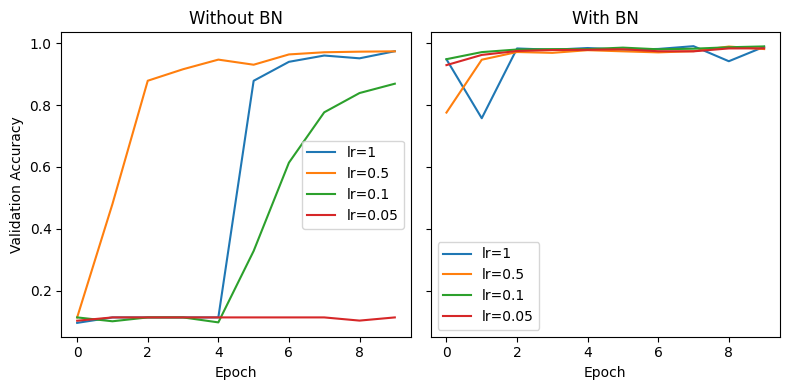
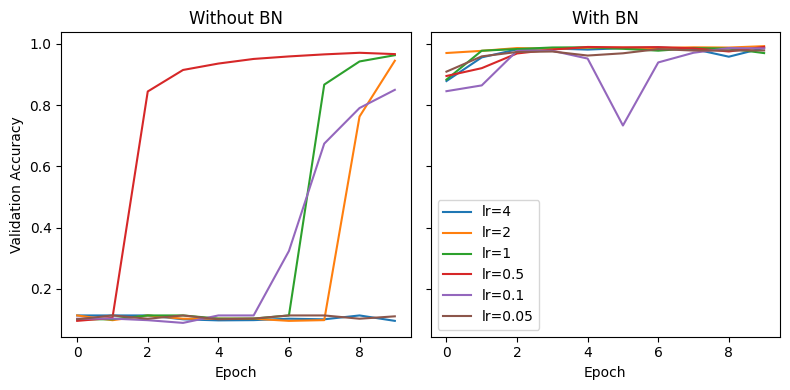
progress

diff --git a/d2l-exercises/8-5.html b/d2l-exercises/8-5.html
@@ -133,7 +133,7 @@ window.Quarto = {
 
 
 <p>Where I attempt to solve the exercises in <a href="https://d2l.ai/chapter_convolutional-modern/batch-norm.html">section 8.5 of the d2l book</a> from scratch in pytorch (without using the d2l library).</p>
-<div id="cell-2" class="cell" data-execution_count="1">
+<div id="cell-2" class="cell" data-execution_count="7">
 <details class="code-fold">
 <summary>Imports</summary>
 <div class="sourceCode cell-code" id="cb1"><pre class="sourceCode python code-with-copy"><code class="sourceCode python"><span id="cb1-1"><a href="#cb1-1" aria-hidden="true" tabindex="-1"></a><span class="cf">try</span>:</span>
@@ -152,10 +152,11 @@ window.Quarto = {
 <span id="cb1-14"><a href="#cb1-14" aria-hidden="true" tabindex="-1"></a></span>
 <span id="cb1-15"><a href="#cb1-15" aria-hidden="true" tabindex="-1"></a><span class="im">import</span> numpy <span class="im">as</span> np</span>
 <span id="cb1-16"><a href="#cb1-16" aria-hidden="true" tabindex="-1"></a><span class="im">import</span> pandas <span class="im">as</span> pd</span>
-<span id="cb1-17"><a href="#cb1-17" aria-hidden="true" tabindex="-1"></a><span class="im">import</span> matplotlib.pyplot <span class="im">as</span> plt</span>
-<span id="cb1-18"><a href="#cb1-18" aria-hidden="true" tabindex="-1"></a><span class="im">import</span> os, itertools, time, random</span>
-<span id="cb1-19"><a href="#cb1-19" aria-hidden="true" tabindex="-1"></a></span>
-<span id="cb1-20"><a href="#cb1-20" aria-hidden="true" tabindex="-1"></a>device <span class="op">=</span> <span class="st">'cpu'</span></span></code><button title="Copy to Clipboard" class="code-copy-button"><i class="bi"></i></button></pre></div>
+<span id="cb1-17"><a href="#cb1-17" aria-hidden="true" tabindex="-1"></a><span class="im">import</span> seaborn <span class="im">as</span> sns</span>
+<span id="cb1-18"><a href="#cb1-18" aria-hidden="true" tabindex="-1"></a><span class="im">import</span> matplotlib.pyplot <span class="im">as</span> plt</span>
+<span id="cb1-19"><a href="#cb1-19" aria-hidden="true" tabindex="-1"></a><span class="im">import</span> os, itertools, time, random</span>
+<span id="cb1-20"><a href="#cb1-20" aria-hidden="true" tabindex="-1"></a></span>
+<span id="cb1-21"><a href="#cb1-21" aria-hidden="true" tabindex="-1"></a>device <span class="op">=</span> <span class="st">'cpu'</span></span></code><button title="Copy to Clipboard" class="code-copy-button"><i class="bi"></i></button></pre></div>
 </details>
 </div>
 <section id="context" class="level2">
@@ -168,7 +169,7 @@ BN(x) = \gamma \odot \frac{x-\hat \mu_B}{\hat \sigma_B} + \beta
 <p>Where <span class="math inline">\(\gamma\)</span>, <span class="math inline">\(\beta\)</span> are learned and <span class="math inline">\(\mu_B\)</span>, <span class="math inline">\(\sigma_B\)</span> are estimated using the input’s minibatch <span class="math inline">\(B\)</span>.</p>
 <p>I.e. batch norm first normalizes the input to have mean <span class="math inline">\(0\)</span> and std <span class="math inline">\(1\)</span>, facilitating convergence during optimization.</p>
 <p>However, since BN is typically applied before activation (at least traditionally), doing so will reduce the expressive power of the layer. For instance, as pointed out by the <a href="https://arxiv.org/pdf/1502.03167">original paper</a>, “normalizing the inputs of a sigmoid would constrain them to the linear regime of the nonlinearity”. Below we plot a sigmoid and note that in the [-1, 1] range it is essentially linear.</p>
-<div id="cell-4" class="cell" data-execution_count="19">
+<div id="cell-4" class="cell" data-execution_count="8">
 <details class="code-fold">
 <summary>Plot sigmoid</summary>
 <div class="sourceCode cell-code" id="cb2"><pre class="sourceCode python code-with-copy"><code class="sourceCode python"><span id="cb2-1"><a href="#cb2-1" aria-hidden="true" tabindex="-1"></a>f, (ax1, ax2) <span class="op">=</span> plt.subplots(<span class="dv">1</span>, <span class="dv">2</span>, figsize<span class="op">=</span>(<span class="dv">6</span>, <span class="dv">3</span>))</span>
@@ -208,7 +209,7 @@ BN_{\gamma, \beta}(x + \alpha) =  BN_{\gamma, \beta'}(x)
 <p>In convolution layers we apply BN per channel, across all locations. I.e. <em>“each channel has its own scale and shift parameters, both of which are scalars”</em>. And since the convolution layer also outputs a scalar bias per channel, a similar argument applies.</p>
 <p>But should we remove the biases? Yes. We get the same expressive power with less params.</p>
 <p>Lets try it out empirically on MNIST by training the <code>BNLeNet</code> network defined in the section, removing bias on linear and convolution layers in turn. Although we’ll not get the same learned parameters (<span class="math inline">\(\beta \to \beta'\)</span>), we should get comparable performance.</p>
-<div id="cell-10" class="cell" data-execution_count="44">
+<div id="cell-10" class="cell" data-execution_count="10">
 <details class="code-fold">
 <summary>Model definition</summary>
 <div class="sourceCode cell-code" id="cb3"><pre class="sourceCode python code-with-copy"><code class="sourceCode python"><span id="cb3-1"><a href="#cb3-1" aria-hidden="true" tabindex="-1"></a><span class="kw">def</span> init_cnn(module):</span>
@@ -234,7 +235,7 @@ BN_{\gamma, \beta}(x + \alpha) =  BN_{\gamma, \beta'}(x)
 <span id="cb3-21"><a href="#cb3-21" aria-hidden="true" tabindex="-1"></a>        <span class="cf">return</span> <span class="va">self</span>.net(x)</span></code><button title="Copy to Clipboard" class="code-copy-button"><i class="bi"></i></button></pre></div>
 </details>
 </div>
-<div id="cell-11" class="cell" data-execution_count="42">
+<div id="cell-11" class="cell" data-execution_count="11">
 <details class="code-fold">
 <summary>Training function</summary>
 <div class="sourceCode cell-code" id="cb4"><pre class="sourceCode python code-with-copy"><code class="sourceCode python"><span id="cb4-1"><a href="#cb4-1" aria-hidden="true" tabindex="-1"></a><span class="kw">def</span> train(net, train_loader, test_loader, num_epochs <span class="op">=</span> <span class="dv">5</span>, lr <span class="op">=</span> <span class="fl">0.1</span>, verbose <span class="op">=</span> <span class="va">True</span>):</span>
@@ -264,7 +265,7 @@ BN_{\gamma, \beta}(x + \alpha) =  BN_{\gamma, \beta'}(x)
 <span id="cb4-25"><a href="#cb4-25" aria-hidden="true" tabindex="-1"></a>    <span class="cf">return</span> test_accs</span></code><button title="Copy to Clipboard" class="code-copy-button"><i class="bi"></i></button></pre></div>
 </details>
 </div>
-<div id="cell-12" class="cell" data-execution_count="70">
+<div id="cell-12" class="cell" data-execution_count="12">
 <details class="code-fold">
 <summary>Train and evaluate</summary>
 <div class="sourceCode cell-code" id="cb5"><pre class="sourceCode python code-with-copy"><code class="sourceCode python"><span id="cb5-1"><a href="#cb5-1" aria-hidden="true" tabindex="-1"></a><span class="co"># Set data loader seed for reproducibility</span></span>
@@ -277,19 +278,19 @@ BN_{\gamma, \beta}(x + \alpha) =  BN_{\gamma, \beta'}(x)
 <span id="cb5-8"><a href="#cb5-8" aria-hidden="true" tabindex="-1"></a></span>
 <span id="cb5-9"><a href="#cb5-9" aria-hidden="true" tabindex="-1"></a><span class="cf">for</span> removed_bias <span class="kw">in</span> [<span class="st">'none'</span>, <span class="st">'linear'</span>, <span class="st">'conv'</span>]:</span>
 <span id="cb5-10"><a href="#cb5-10" aria-hidden="true" tabindex="-1"></a></span>
-<span id="cb5-11"><a href="#cb5-11" aria-hidden="true" tabindex="-1"></a>    net <span class="op">=</span> BNLeNet(removed_bias <span class="op">=</span> removed_bias)</span>
-<span id="cb5-12"><a href="#cb5-12" aria-hidden="true" tabindex="-1"></a>    torch.manual_seed(<span class="dv">0</span>)<span class="op">;</span> np.random.seed(<span class="dv">0</span>)<span class="op">;</span> random.seed(<span class="dv">0</span>)</span>
-<span id="cb5-13"><a href="#cb5-13" aria-hidden="true" tabindex="-1"></a>    g <span class="op">=</span> torch.Generator()</span>
-<span id="cb5-14"><a href="#cb5-14" aria-hidden="true" tabindex="-1"></a>    g.manual_seed(<span class="dv">0</span>)</span>
+<span id="cb5-11"><a href="#cb5-11" aria-hidden="true" tabindex="-1"></a>    torch.manual_seed(<span class="dv">0</span>)<span class="op">;</span> np.random.seed(<span class="dv">0</span>)<span class="op">;</span> random.seed(<span class="dv">0</span>)</span>
+<span id="cb5-12"><a href="#cb5-12" aria-hidden="true" tabindex="-1"></a>    g <span class="op">=</span> torch.Generator()</span>
+<span id="cb5-13"><a href="#cb5-13" aria-hidden="true" tabindex="-1"></a>    g.manual_seed(<span class="dv">0</span>)</span>
+<span id="cb5-14"><a href="#cb5-14" aria-hidden="true" tabindex="-1"></a>    net <span class="op">=</span> BNLeNet(removed_bias <span class="op">=</span> removed_bias)</span>
 <span id="cb5-15"><a href="#cb5-15" aria-hidden="true" tabindex="-1"></a>    train_loader <span class="op">=</span> DataLoader(training_data, batch_size <span class="op">=</span> <span class="dv">128</span>, shuffle <span class="op">=</span> <span class="va">True</span>, worker_init_fn <span class="op">=</span> seed_worker, generator <span class="op">=</span> g)</span>
 <span id="cb5-16"><a href="#cb5-16" aria-hidden="true" tabindex="-1"></a></span>
 <span id="cb5-17"><a href="#cb5-17" aria-hidden="true" tabindex="-1"></a>    train(net, train_loader, test_loader, num_epochs <span class="op">=</span> <span class="dv">10</span>, lr <span class="op">=</span> <span class="fl">0.1</span>, verbose <span class="op">=</span> <span class="va">False</span>)</span>
 <span id="cb5-18"><a href="#cb5-18" aria-hidden="true" tabindex="-1"></a>    <span class="bu">print</span>(<span class="ss">f'</span><span class="sc">{</span>removed_bias<span class="sc">}</span><span class="ss"> final test acc: </span><span class="ch">\t</span><span class="sc">{</span>eval_net(net, test_loader)<span class="sc">}</span><span class="ss">'</span>)</span></code><button title="Copy to Clipboard" class="code-copy-button"><i class="bi"></i></button></pre></div>
 </details>
 <div class="cell-output cell-output-stdout">
-<pre><code>none final test acc:    0.9816
-linear final test acc:  0.9863
-conv final test acc:    0.9781</code></pre>
+<pre><code>none final test acc:    0.9821
+linear final test acc:  0.9869
+conv final test acc:    0.9824</code></pre>
 </div>
 </div>
 <p>Close enough.</p>
@@ -339,8 +340,8 @@ conv final test acc:    0.9781</code></pre>
 <span id="cb7-33"><a href="#cb7-33" aria-hidden="true" tabindex="-1"></a>        <span class="cf">return</span> <span class="va">self</span>.net(x)</span></code><button title="Copy to Clipboard" class="code-copy-button"><i class="bi"></i></button></pre></div>
 </details>
 </div>
-<p>Let’s try the range <span class="math inline">\(lr \in \{1, 0.5, 0.1, 0.05\}\)</span>:</p>
-<div id="cell-18" class="cell" data-execution_count="70">
+<p>We found <span class="math inline">\(lr \in \{4, 2, 1, 0.5, 0.1, 0.05\}\)</span> to the extreme learning rates where LeNet still trains (in 10 epochs).</p>
+<div id="cell-18" class="cell" data-execution_count="109">
 <details class="code-fold">
 <summary>Plot results</summary>
 <div class="sourceCode cell-code" id="cb8"><pre class="sourceCode python code-with-copy"><code class="sourceCode python"><span id="cb8-1"><a href="#cb8-1" aria-hidden="true" tabindex="-1"></a>f, (ax1, ax2) <span class="op">=</span> plt.subplots(<span class="dv">1</span>, <span class="dv">2</span>, figsize<span class="op">=</span>(<span class="dv">8</span>, <span class="dv">4</span>), sharey <span class="op">=</span> <span class="va">True</span>)</span>
@@ -348,11 +349,12 @@ conv final test acc:    0.9781</code></pre>
 <span id="cb8-3"><a href="#cb8-3" aria-hidden="true" tabindex="-1"></a><span class="cf">for</span> ax, name, results <span class="kw">in</span> <span class="bu">zip</span>([ax1, ax2], [<span class="st">'Without BN'</span>, <span class="st">'With BN'</span>], [without_bn, with_bn]):</span>
 <span id="cb8-4"><a href="#cb8-4" aria-hidden="true" tabindex="-1"></a>    <span class="cf">for</span> lr, accs <span class="kw">in</span> <span class="bu">zip</span>(lrs, results):</span>
 <span id="cb8-5"><a href="#cb8-5" aria-hidden="true" tabindex="-1"></a>        ax.plot(accs, label<span class="op">=</span><span class="ss">f'lr=</span><span class="sc">{</span>lr<span class="sc">}</span><span class="ss">'</span>)</span>
-<span id="cb8-6"><a href="#cb8-6" aria-hidden="true" tabindex="-1"></a>        ax.legend()</span>
-<span id="cb8-7"><a href="#cb8-7" aria-hidden="true" tabindex="-1"></a>        ax.set_title(<span class="ss">f'</span><span class="sc">{</span>name<span class="sc">}</span><span class="ss">'</span>)</span>
-<span id="cb8-8"><a href="#cb8-8" aria-hidden="true" tabindex="-1"></a>        ax.set_xlabel(<span class="st">'Epoch'</span>)</span>
+<span id="cb8-6"><a href="#cb8-6" aria-hidden="true" tabindex="-1"></a>        ax.set_title(<span class="ss">f'</span><span class="sc">{</span>name<span class="sc">}</span><span class="ss">'</span>)</span>
+<span id="cb8-7"><a href="#cb8-7" aria-hidden="true" tabindex="-1"></a>        ax.set_xlabel(<span class="st">'Epoch'</span>)</span>
+<span id="cb8-8"><a href="#cb8-8" aria-hidden="true" tabindex="-1"></a></span>
 <span id="cb8-9"><a href="#cb8-9" aria-hidden="true" tabindex="-1"></a>ax1.set_ylabel(<span class="st">'Validation Accuracy'</span>)</span>
-<span id="cb8-10"><a href="#cb8-10" aria-hidden="true" tabindex="-1"></a>f.tight_layout()</span></code><button title="Copy to Clipboard" class="code-copy-button"><i class="bi"></i></button></pre></div>
+<span id="cb8-10"><a href="#cb8-10" aria-hidden="true" tabindex="-1"></a>ax2.legend()</span>
+<span id="cb8-11"><a href="#cb8-11" aria-hidden="true" tabindex="-1"></a>f.tight_layout()</span></code><button title="Copy to Clipboard" class="code-copy-button"><i class="bi"></i></button></pre></div>
 </details>
 <div class="cell-output cell-output-display">
 <div>
@@ -362,19 +364,167 @@ conv final test acc:    0.9781</code></pre>
 </div>
 </div>
 </div>
-<p>And we observe that applying batch norm helps early training - we achive better performance earlier. And while we would probably obtain the same test accuracy given more epochs with both methods, training without BN already fails at a learning rate of <span class="math inline">\(0.05\)</span>.</p>
+<p>And we observe that applying batch norm helps early training (we achive better performance earlier) and makes training more robust to learning rate selection.</p>
+<p><a href="https://proceedings.neurips.cc/paper/2018/hash/36072923bfc3cf47745d704feb489480-Abstract.html"><em>Understanding Batch Normalization</em></a> poses that batch norm’s main benefit is that is allows for greater learning rates by containing activation blowup (especially in later layers), which in turn biases the optimization to “flatter” minimas with better generalization.</p>
+<p>It seems our small experiment aligns with the paper, even though our network is quite shallow.</p>
 </section>
 <section id="q3" class="level2">
 <h2 class="anchored" data-anchor-id="q3">Q3</h2>
 <p>Do we need batch normalization in every layer? Experiment with it.</p>
+<p>The paper demonstrates that it is more benefitial in later layers. Let’s see if it is in our case and remove each batch norm in turn, logging test accuracies and activations. We trained 5 nets per configuration.</p>
+<div id="cell-23" class="cell" data-execution_count="15">
+<details class="code-fold">
+<summary>Redefine the model</summary>
+<div class="sourceCode cell-code" id="cb9"><pre class="sourceCode python code-with-copy"><code class="sourceCode python"><span id="cb9-1"><a href="#cb9-1" aria-hidden="true" tabindex="-1"></a><span class="kw">class</span> BNLeNet(nn.Module):</span>
+<span id="cb9-2"><a href="#cb9-2" aria-hidden="true" tabindex="-1"></a>    <span class="kw">def</span> <span class="fu">__init__</span>(<span class="va">self</span>, num_classes <span class="op">=</span> <span class="dv">10</span>, ex_bn_layers <span class="op">=</span> []):</span>
+<span id="cb9-3"><a href="#cb9-3" aria-hidden="true" tabindex="-1"></a>        <span class="co"># ex_bn_layers: list of BN layers to exclude (1, ..., 4)</span></span>
+<span id="cb9-4"><a href="#cb9-4" aria-hidden="true" tabindex="-1"></a></span>
+<span id="cb9-5"><a href="#cb9-5" aria-hidden="true" tabindex="-1"></a>        <span class="bu">super</span>().<span class="fu">__init__</span>()</span>
+<span id="cb9-6"><a href="#cb9-6" aria-hidden="true" tabindex="-1"></a>        <span class="cf">for</span> i <span class="kw">in</span> ex_bn_layers: <span class="cf">assert</span> i <span class="kw">in</span> <span class="bu">range</span>(<span class="dv">1</span>, <span class="dv">5</span>), <span class="st">'There are only 4 BN layers'</span></span>
+<span id="cb9-7"><a href="#cb9-7" aria-hidden="true" tabindex="-1"></a></span>
+<span id="cb9-8"><a href="#cb9-8" aria-hidden="true" tabindex="-1"></a>        layers <span class="op">=</span> [</span>
+<span id="cb9-9"><a href="#cb9-9" aria-hidden="true" tabindex="-1"></a>            nn.LazyConv2d(<span class="dv">6</span>, kernel_size<span class="op">=</span><span class="dv">5</span>), nn.LazyBatchNorm2d(), nn.Sigmoid(),</span>
+<span id="cb9-10"><a href="#cb9-10" aria-hidden="true" tabindex="-1"></a>            nn.AvgPool2d(kernel_size<span class="op">=</span><span class="dv">2</span>, stride<span class="op">=</span><span class="dv">2</span>),</span>
+<span id="cb9-11"><a href="#cb9-11" aria-hidden="true" tabindex="-1"></a>            nn.LazyConv2d(<span class="dv">16</span>, kernel_size<span class="op">=</span><span class="dv">5</span>), nn.LazyBatchNorm2d(), nn.Sigmoid(),</span>
+<span id="cb9-12"><a href="#cb9-12" aria-hidden="true" tabindex="-1"></a>            nn.AvgPool2d(kernel_size<span class="op">=</span><span class="dv">2</span>, stride<span class="op">=</span><span class="dv">2</span>),</span>
+<span id="cb9-13"><a href="#cb9-13" aria-hidden="true" tabindex="-1"></a>            nn.Flatten(),</span>
+<span id="cb9-14"><a href="#cb9-14" aria-hidden="true" tabindex="-1"></a>            nn.LazyLinear(<span class="dv">120</span>), nn.LazyBatchNorm1d(), nn.Sigmoid(),</span>
+<span id="cb9-15"><a href="#cb9-15" aria-hidden="true" tabindex="-1"></a>            nn.LazyLinear(<span class="dv">84</span>), nn.LazyBatchNorm1d(), nn.Sigmoid(),</span>
+<span id="cb9-16"><a href="#cb9-16" aria-hidden="true" tabindex="-1"></a>            nn.LazyLinear(num_classes)</span>
+<span id="cb9-17"><a href="#cb9-17" aria-hidden="true" tabindex="-1"></a>        ]</span>
+<span id="cb9-18"><a href="#cb9-18" aria-hidden="true" tabindex="-1"></a></span>
+<span id="cb9-19"><a href="#cb9-19" aria-hidden="true" tabindex="-1"></a>        bn_idx <span class="op">=</span> [i <span class="cf">for</span> i, module <span class="kw">in</span> <span class="bu">enumerate</span>(layers) <span class="cf">if</span> <span class="st">'BatchNorm'</span> <span class="kw">in</span> <span class="bu">str</span>(module)]</span>
+<span id="cb9-20"><a href="#cb9-20" aria-hidden="true" tabindex="-1"></a>        <span class="cf">for</span> i <span class="kw">in</span> ex_bn_layers: layers[bn_idx[i <span class="op">-</span> <span class="dv">1</span>]] <span class="op">=</span> nn.Identity()</span>
+<span id="cb9-21"><a href="#cb9-21" aria-hidden="true" tabindex="-1"></a></span>
+<span id="cb9-22"><a href="#cb9-22" aria-hidden="true" tabindex="-1"></a>        <span class="va">self</span>.net <span class="op">=</span> nn.Sequential(<span class="op">*</span>layers)</span>
+<span id="cb9-23"><a href="#cb9-23" aria-hidden="true" tabindex="-1"></a></span>
+<span id="cb9-24"><a href="#cb9-24" aria-hidden="true" tabindex="-1"></a>    <span class="kw">def</span> forward(<span class="va">self</span>, x):</span>
+<span id="cb9-25"><a href="#cb9-25" aria-hidden="true" tabindex="-1"></a>        <span class="cf">return</span> <span class="va">self</span>.net(x)</span></code><button title="Copy to Clipboard" class="code-copy-button"><i class="bi"></i></button></pre></div>
+</details>
+</div>
+<div id="cell-24" class="cell">
+<details class="code-fold">
+<summary>Train and evaluate</summary>
+<div class="sourceCode cell-code" id="cb10"><pre class="sourceCode python code-with-copy"><code class="sourceCode python"><span id="cb10-1"><a href="#cb10-1" aria-hidden="true" tabindex="-1"></a>train_loader <span class="op">=</span> DataLoader(training_data, batch_size <span class="op">=</span> <span class="dv">128</span>, shuffle <span class="op">=</span> <span class="va">True</span>)</span>
+<span id="cb10-2"><a href="#cb10-2" aria-hidden="true" tabindex="-1"></a>test_loader <span class="op">=</span> DataLoader(testing_data, batch_size <span class="op">=</span> <span class="dv">128</span>, shuffle <span class="op">=</span> <span class="va">False</span>)</span>
+<span id="cb10-3"><a href="#cb10-3" aria-hidden="true" tabindex="-1"></a>imgs, labels <span class="op">=</span> <span class="bu">next</span>(<span class="bu">iter</span>(train_loader))</span>
+<span id="cb10-4"><a href="#cb10-4" aria-hidden="true" tabindex="-1"></a></span>
+<span id="cb10-5"><a href="#cb10-5" aria-hidden="true" tabindex="-1"></a>ex_bn_layers <span class="op">=</span> [[], [<span class="dv">1</span>], [<span class="dv">2</span>], [<span class="dv">3</span>], [<span class="dv">4</span>]]</span>
+<span id="cb10-6"><a href="#cb10-6" aria-hidden="true" tabindex="-1"></a>mag_layers <span class="op">=</span> [<span class="dv">2</span>, <span class="dv">6</span>, <span class="dv">11</span>, <span class="dv">14</span>]</span>
+<span id="cb10-7"><a href="#cb10-7" aria-hidden="true" tabindex="-1"></a>results <span class="op">=</span> []</span>
+<span id="cb10-8"><a href="#cb10-8" aria-hidden="true" tabindex="-1"></a></span>
+<span id="cb10-9"><a href="#cb10-9" aria-hidden="true" tabindex="-1"></a><span class="cf">for</span> ex <span class="kw">in</span> ex_bn_layers:</span>
+<span id="cb10-10"><a href="#cb10-10" aria-hidden="true" tabindex="-1"></a></span>
+<span id="cb10-11"><a href="#cb10-11" aria-hidden="true" tabindex="-1"></a>    <span class="bu">print</span>(ex)</span>
+<span id="cb10-12"><a href="#cb10-12" aria-hidden="true" tabindex="-1"></a></span>
+<span id="cb10-13"><a href="#cb10-13" aria-hidden="true" tabindex="-1"></a>    <span class="cf">for</span> epochs <span class="kw">in</span> [<span class="dv">2</span>, <span class="dv">4</span>, <span class="dv">8</span>]:</span>
+<span id="cb10-14"><a href="#cb10-14" aria-hidden="true" tabindex="-1"></a></span>
+<span id="cb10-15"><a href="#cb10-15" aria-hidden="true" tabindex="-1"></a>        <span class="bu">print</span>(epochs)</span>
+<span id="cb10-16"><a href="#cb10-16" aria-hidden="true" tabindex="-1"></a>    </span>
+<span id="cb10-17"><a href="#cb10-17" aria-hidden="true" tabindex="-1"></a>        <span class="cf">for</span> i <span class="kw">in</span> <span class="bu">range</span>(<span class="dv">5</span>):</span>
+<span id="cb10-18"><a href="#cb10-18" aria-hidden="true" tabindex="-1"></a></span>
+<span id="cb10-19"><a href="#cb10-19" aria-hidden="true" tabindex="-1"></a>            net <span class="op">=</span> BNLeNet(ex_bn_layers <span class="op">=</span> ex)</span>
+<span id="cb10-20"><a href="#cb10-20" aria-hidden="true" tabindex="-1"></a>            test_accs <span class="op">=</span> train(net, train_loader, test_loader, num_epochs <span class="op">=</span> epochs, lr <span class="op">=</span> <span class="fl">0.1</span>, verbose <span class="op">=</span> <span class="va">False</span>)</span>
+<span id="cb10-21"><a href="#cb10-21" aria-hidden="true" tabindex="-1"></a></span>
+<span id="cb10-22"><a href="#cb10-22" aria-hidden="true" tabindex="-1"></a>            tmp <span class="op">=</span> {</span>
+<span id="cb10-23"><a href="#cb10-23" aria-hidden="true" tabindex="-1"></a>                <span class="st">'Excluded BN layers'</span>: ex[<span class="dv">0</span>] <span class="cf">if</span> ex <span class="cf">else</span> <span class="dv">0</span>,</span>
+<span id="cb10-24"><a href="#cb10-24" aria-hidden="true" tabindex="-1"></a>                <span class="st">'Epochs'</span>: epochs,</span>
+<span id="cb10-25"><a href="#cb10-25" aria-hidden="true" tabindex="-1"></a>                <span class="st">'Test accuracy'</span>: test_accs[<span class="op">-</span><span class="dv">1</span>],</span>
+<span id="cb10-26"><a href="#cb10-26" aria-hidden="true" tabindex="-1"></a>                <span class="st">'Iter'</span>: i</span>
+<span id="cb10-27"><a href="#cb10-27" aria-hidden="true" tabindex="-1"></a>            }</span>
+<span id="cb10-28"><a href="#cb10-28" aria-hidden="true" tabindex="-1"></a>            </span>
+<span id="cb10-29"><a href="#cb10-29" aria-hidden="true" tabindex="-1"></a>            <span class="cf">for</span> lyr <span class="kw">in</span> mag_layers:</span>
+<span id="cb10-30"><a href="#cb10-30" aria-hidden="true" tabindex="-1"></a>                sub <span class="op">=</span> net.net[:lyr]</span>
+<span id="cb10-31"><a href="#cb10-31" aria-hidden="true" tabindex="-1"></a>                <span class="cf">with</span> torch.no_grad(): </span>
+<span id="cb10-32"><a href="#cb10-32" aria-hidden="true" tabindex="-1"></a>                    mag <span class="op">=</span> (sub(imgs) <span class="op">**</span> <span class="dv">2</span>).mean()</span>
+<span id="cb10-33"><a href="#cb10-33" aria-hidden="true" tabindex="-1"></a>                    tmp[<span class="ss">f'Mean mag at </span><span class="sc">{</span>lyr<span class="sc">}</span><span class="ss">'</span>] <span class="op">=</span> mag.item()</span>
+<span id="cb10-34"><a href="#cb10-34" aria-hidden="true" tabindex="-1"></a>            </span>
+<span id="cb10-35"><a href="#cb10-35" aria-hidden="true" tabindex="-1"></a>            results.append(tmp)</span></code><button title="Copy to Clipboard" class="code-copy-button"><i class="bi"></i></button></pre></div>
+</details>
+</div>
+<p>Does performance change?</p>
+<div id="cell-26" class="cell" data-execution_count="266">
+<details class="code-fold">
+<summary>Plot test accuracies</summary>
+<div class="sourceCode cell-code" id="cb11"><pre class="sourceCode python code-with-copy"><code class="sourceCode python"><span id="cb11-1"><a href="#cb11-1" aria-hidden="true" tabindex="-1"></a>res <span class="op">=</span> pd.DataFrame(results)</span>
+<span id="cb11-2"><a href="#cb11-2" aria-hidden="true" tabindex="-1"></a>res[<span class="st">'Excluded BN layers'</span>].replace({<span class="dv">0</span>: <span class="st">'None'</span>, <span class="dv">1</span>: <span class="st">'2'</span>, <span class="dv">2</span>: <span class="st">'6'</span>, <span class="dv">3</span>: <span class="st">'11'</span>, <span class="dv">4</span>: <span class="st">'14'</span>}, inplace <span class="op">=</span> <span class="va">True</span>)</span>
+<span id="cb11-3"><a href="#cb11-3" aria-hidden="true" tabindex="-1"></a></span>
+<span id="cb11-4"><a href="#cb11-4" aria-hidden="true" tabindex="-1"></a>sns.barplot(data <span class="op">=</span> res, x <span class="op">=</span> <span class="st">'Excluded BN layers'</span>, y <span class="op">=</span> <span class="st">'Test accuracy'</span>, hue <span class="op">=</span> <span class="st">'Epochs'</span>)</span>
+<span id="cb11-5"><a href="#cb11-5" aria-hidden="true" tabindex="-1"></a>plt.ylim(<span class="fl">0.5</span>, <span class="dv">1</span>)</span></code><button title="Copy to Clipboard" class="code-copy-button"><i class="bi"></i></button></pre></div>
+</details>
+<div class="cell-output cell-output-display">
+<div>
+<figure class="figure">
+<p><img src="8-5_files/figure-html/cell-13-output-1.png" class="img-fluid figure-img"></p>
+</figure>
+</div>
+</div>
+</div>
+<p>It seems that removing the first batch norm (in the second layer) has the strongest hit on performance.</p>
+<p>What about activations? Let’s plot the <span class="math inline">\(l_2\)</span> norm of activations of layers that come right after batch norm layers:</p>
+<div id="cell-28" class="cell" data-execution_count="267">
+<details class="code-fold">
+<summary>Code</summary>
+<div class="sourceCode cell-code" id="cb12"><pre class="sourceCode python code-with-copy"><code class="sourceCode python"><span id="cb12-1"><a href="#cb12-1" aria-hidden="true" tabindex="-1"></a>f, axs <span class="op">=</span> plt.subplots(<span class="dv">1</span>, <span class="dv">4</span>, figsize<span class="op">=</span>(<span class="dv">16</span>, <span class="dv">4</span>))</span>
+<span id="cb12-2"><a href="#cb12-2" aria-hidden="true" tabindex="-1"></a></span>
+<span id="cb12-3"><a href="#cb12-3" aria-hidden="true" tabindex="-1"></a><span class="cf">for</span> i, lyr <span class="kw">in</span> <span class="bu">enumerate</span>(mag_layers):</span>
+<span id="cb12-4"><a href="#cb12-4" aria-hidden="true" tabindex="-1"></a>    sns.barplot(data <span class="op">=</span> res, x <span class="op">=</span> <span class="st">'Excluded BN layers'</span>, y <span class="op">=</span> <span class="ss">f'Mean mag at </span><span class="sc">{</span>lyr<span class="sc">}</span><span class="ss">'</span>, ax <span class="op">=</span> axs[i], hue<span class="op">=</span><span class="st">'Epochs'</span>)</span>
+<span id="cb12-5"><a href="#cb12-5" aria-hidden="true" tabindex="-1"></a>    axs[i].set_title(<span class="ss">f'Layer </span><span class="sc">{</span>lyr<span class="sc">}</span><span class="ss">'</span>)</span>
+<span id="cb12-6"><a href="#cb12-6" aria-hidden="true" tabindex="-1"></a>    axs[i].set_ylabel(<span class="st">''</span>)</span>
+<span id="cb12-7"><a href="#cb12-7" aria-hidden="true" tabindex="-1"></a></span>
+<span id="cb12-8"><a href="#cb12-8" aria-hidden="true" tabindex="-1"></a>axs[<span class="dv">0</span>].set_ylabel(<span class="st">'Mean act L2 magnitude'</span>)</span>
+<span id="cb12-9"><a href="#cb12-9" aria-hidden="true" tabindex="-1"></a>f.tight_layout()</span></code><button title="Copy to Clipboard" class="code-copy-button"><i class="bi"></i></button></pre></div>
+</details>
+<div class="cell-output cell-output-display">
+<div>
+<figure class="figure">
+<p><img src="8-5_files/figure-html/cell-14-output-1.png" class="img-fluid figure-img"></p>
+</figure>
+</div>
+</div>
+</div>
+<p>We can definitely an effect when we remove batch norm layers. In general the activation magnitudes decrease in the removed layer. I.e. layer 2’s magnitudes when its batch norm is removed are lower than in the original network, and so on for the other layers. It also seems that other layers compensate for this decrease by increasing their magnitudes. Finally, as the paper points out, the effects appear stronger in early epochs.</p>
 </section>
 <section id="q4" class="level2">
 <h2 class="anchored" data-anchor-id="q4">Q4</h2>
 <p>Implement a “lite” version of batch normalization that only removes the mean, or alternatively one that only removes the variance. How does it behave?</p>
+<p>We can freeze <code>BatchNorm</code>’s weight and bias params respectively:</p>
+<div id="cell-31" class="cell" data-execution_count="19">
+<details class="code-fold">
+<summary>Train and evaluate</summary>
+<div class="sourceCode cell-code" id="cb13"><pre class="sourceCode python code-with-copy"><code class="sourceCode python"><span id="cb13-1"><a href="#cb13-1" aria-hidden="true" tabindex="-1"></a><span class="cf">for</span> remove_mean, remove_var <span class="kw">in</span> [[<span class="va">True</span>, <span class="va">True</span>], [<span class="va">False</span>, <span class="va">True</span>], [<span class="va">True</span>, <span class="va">False</span>], [<span class="va">False</span>, <span class="va">False</span>]]:</span>
+<span id="cb13-2"><a href="#cb13-2" aria-hidden="true" tabindex="-1"></a></span>
+<span id="cb13-3"><a href="#cb13-3" aria-hidden="true" tabindex="-1"></a>    <span class="co"># All nets "see" the same data</span></span>
+<span id="cb13-4"><a href="#cb13-4" aria-hidden="true" tabindex="-1"></a>    torch.manual_seed(<span class="dv">0</span>)<span class="op">;</span> np.random.seed(<span class="dv">0</span>)<span class="op">;</span> random.seed(<span class="dv">0</span>)</span>
+<span id="cb13-5"><a href="#cb13-5" aria-hidden="true" tabindex="-1"></a>    g <span class="op">=</span> torch.Generator()</span>
+<span id="cb13-6"><a href="#cb13-6" aria-hidden="true" tabindex="-1"></a>    g.manual_seed(<span class="dv">0</span>)</span>
+<span id="cb13-7"><a href="#cb13-7" aria-hidden="true" tabindex="-1"></a></span>
+<span id="cb13-8"><a href="#cb13-8" aria-hidden="true" tabindex="-1"></a>    net <span class="op">=</span> BNLeNet()</span>
+<span id="cb13-9"><a href="#cb13-9" aria-hidden="true" tabindex="-1"></a>    <span class="cf">for</span> module <span class="kw">in</span> net.net:</span>
+<span id="cb13-10"><a href="#cb13-10" aria-hidden="true" tabindex="-1"></a>        <span class="cf">if</span> <span class="st">'BatchNorm'</span> <span class="kw">in</span> <span class="bu">str</span>(module):</span>
+<span id="cb13-11"><a href="#cb13-11" aria-hidden="true" tabindex="-1"></a>            <span class="cf">if</span> remove_mean:</span>
+<span id="cb13-12"><a href="#cb13-12" aria-hidden="true" tabindex="-1"></a>                module.bias.requires_grad <span class="op">=</span> <span class="va">False</span></span>
+<span id="cb13-13"><a href="#cb13-13" aria-hidden="true" tabindex="-1"></a>            <span class="cf">if</span> remove_var:</span>
+<span id="cb13-14"><a href="#cb13-14" aria-hidden="true" tabindex="-1"></a>                module.weight.requires_grad <span class="op">=</span> <span class="va">False</span></span>
+<span id="cb13-15"><a href="#cb13-15" aria-hidden="true" tabindex="-1"></a></span>
+<span id="cb13-16"><a href="#cb13-16" aria-hidden="true" tabindex="-1"></a>    train_loader <span class="op">=</span> DataLoader(training_data, batch_size <span class="op">=</span> <span class="dv">128</span>, shuffle <span class="op">=</span> <span class="va">True</span>, worker_init_fn <span class="op">=</span> seed_worker, generator <span class="op">=</span> g)</span>
+<span id="cb13-17"><a href="#cb13-17" aria-hidden="true" tabindex="-1"></a></span>
+<span id="cb13-18"><a href="#cb13-18" aria-hidden="true" tabindex="-1"></a>    test_accs <span class="op">=</span> train(net, train_loader, test_loader, num_epochs <span class="op">=</span> <span class="dv">10</span>, lr <span class="op">=</span> <span class="fl">0.1</span>, verbose <span class="op">=</span> <span class="va">False</span>)</span>
+<span id="cb13-19"><a href="#cb13-19" aria-hidden="true" tabindex="-1"></a>    <span class="bu">print</span>(<span class="ss">f'Remove mean: </span><span class="sc">{</span>remove_mean<span class="sc">}</span><span class="ss"> Remove var: </span><span class="sc">{</span>remove_var<span class="sc">}</span><span class="ch">\t\t</span><span class="ss">final test acc: </span><span class="sc">{</span>test_accs[<span class="op">-</span><span class="dv">1</span>]<span class="sc">}</span><span class="ss">'</span>)</span></code><button title="Copy to Clipboard" class="code-copy-button"><i class="bi"></i></button></pre></div>
+</details>
+<div class="cell-output cell-output-stdout">
+<pre><code>Remove mean: True Remove var: True      final test acc: 0.9674
+Remove mean: False Remove var: True     final test acc: 0.9676
+Remove mean: True Remove var: False     final test acc: 0.9796
+Remove mean: False Remove var: False        final test acc: 0.98</code></pre>
+</div>
+</div>
+<p>It appears that only removing the variance has more of an effect in our case. Is this generally true? Haven’t found anything online yet.</p>
 </section>
 <section id="q5" class="level2">
 <h2 class="anchored" data-anchor-id="q5">Q5</h2>
 <p>Fix the parameters beta and gamma. Observe and analyze the results.</p>
+<p>We can accomplish this by <code>affine = False</code> in <code>BatchNorm</code> layers.</p>
 </section>
 <section id="q6" class="level2">
 <h2 class="anchored" data-anchor-id="q6">Q6</h2>
